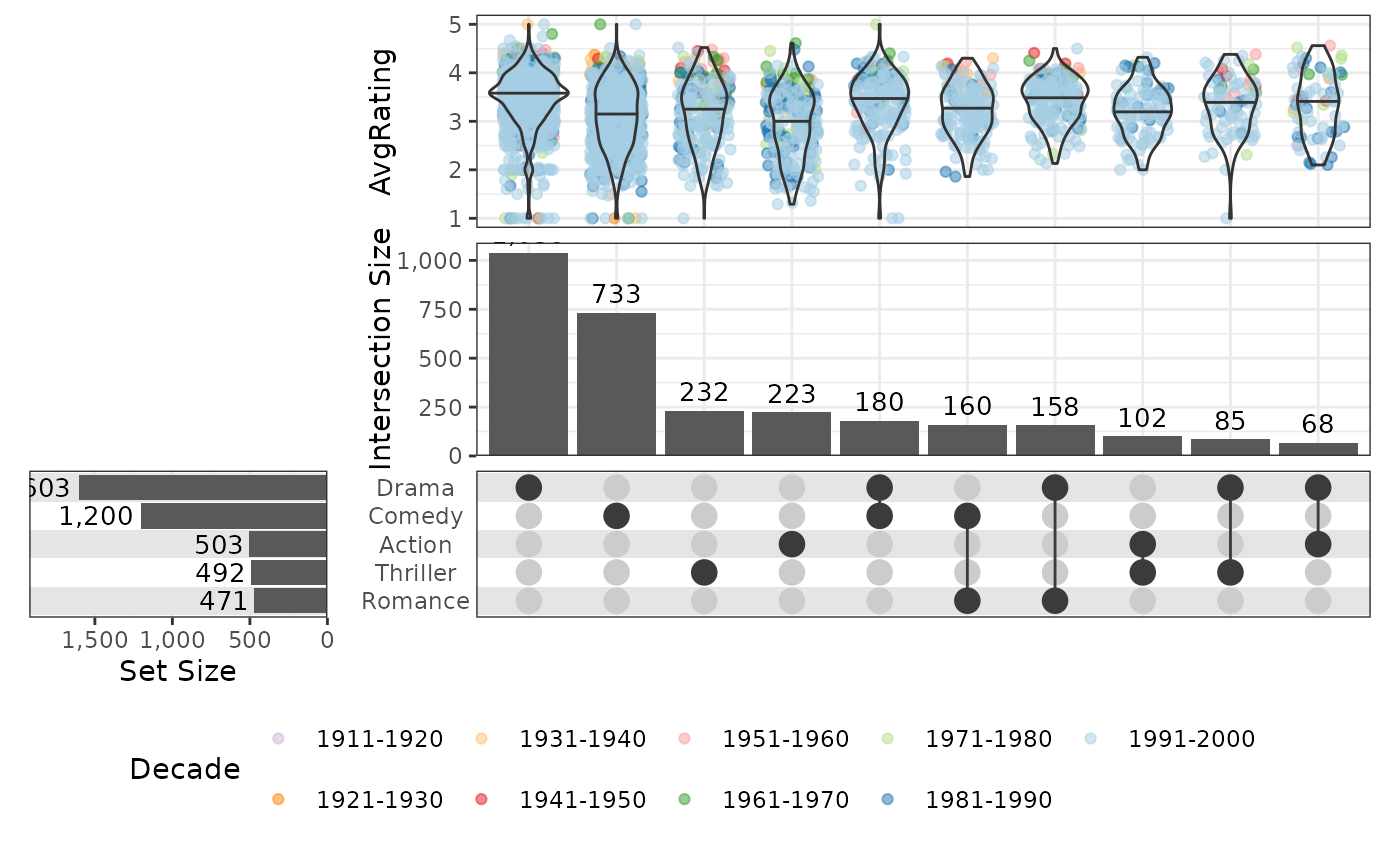
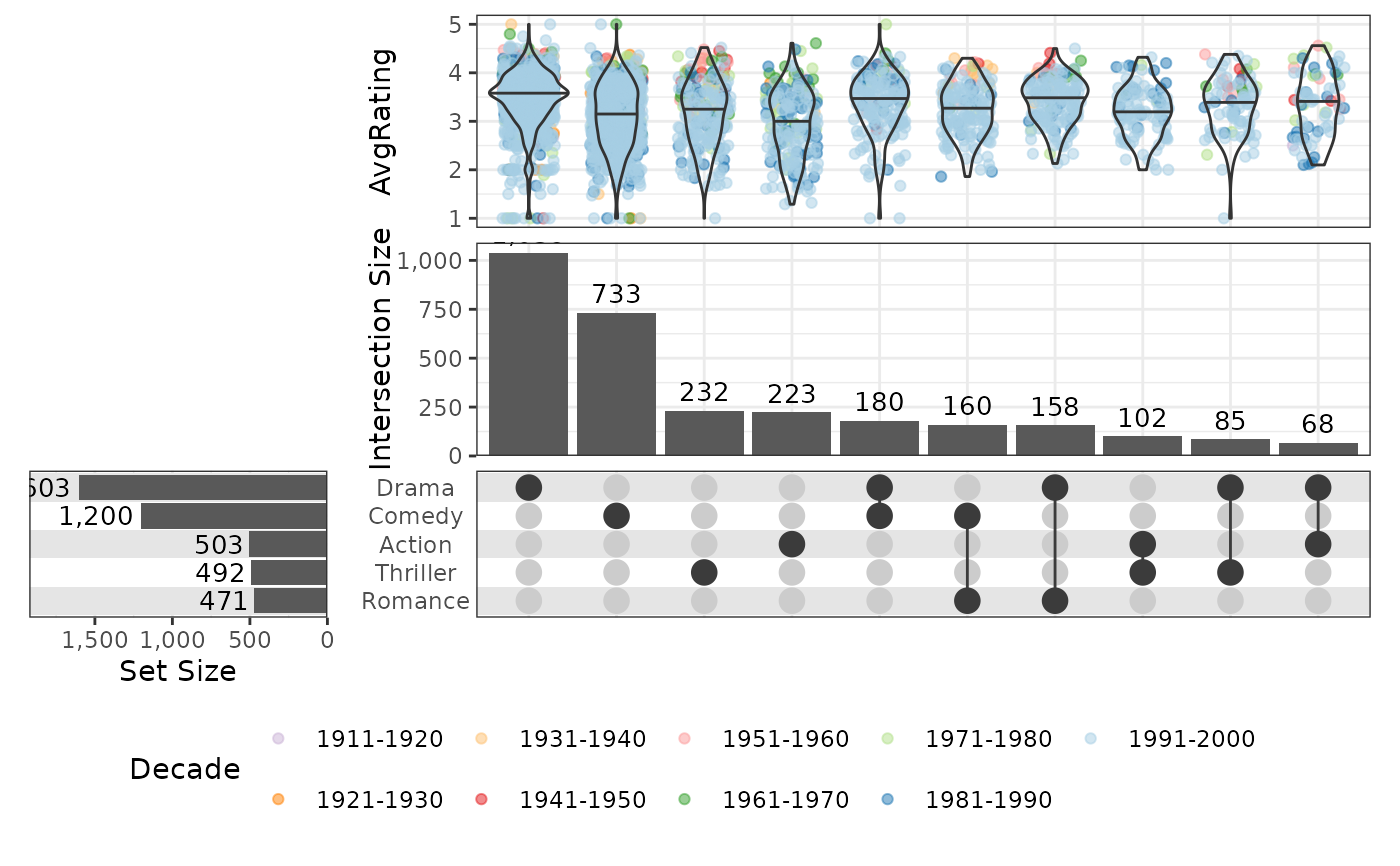
Built site for SimpleUpset@0.1.5: b88eb12

Changed region(s): [[0.3379, 0.0, 0.9829, 0.2806], [0.6143, 0.2494, 0.645, 0.2806]]

diff --git a/articles/introduction.html b/articles/introduction.html
@@ -32,7 +32,7 @@
       </button>
       <span class="navbar-brand">
         <a class="navbar-link" href="../index.html">SimpleUpset</a>
-        <span class="version label label-default" data-toggle="tooltip" data-placement="bottom" title="">0.1.4</span>
+        <span class="version label label-default" data-toggle="tooltip" data-placement="bottom" title="">0.1.5</span>
       </span>
     </div>
 
@@ -167,7 +167,7 @@ logical values, or logical values directly.</p>
 <div class="sourceCode" id="cb3"><pre class="downlit sourceCode r">
 <code class="sourceCode R"><span><span class="va">sets</span> <span class="op">&lt;-</span> <span class="fu"><a href="https://rdrr.io/r/base/c.html" class="external-link">c</a></span><span class="op">(</span><span class="st">"Action"</span>, <span class="st">"Comedy"</span>, <span class="st">"Drama"</span>, <span class="st">"Thriller"</span>, <span class="st">"Romance"</span><span class="op">)</span></span>
 <span><span class="fu"><a href="../reference/simpleUpSet.html">simpleUpSet</a></span><span class="op">(</span><span class="va">movies</span>, <span class="va">sets</span><span class="op">)</span></span></code></pre></div>
-<p><img src="introduction_files/figure-html/simple-upset-1.png" class="r-plt" width="960"></p>
+<p><img src="introduction_files/figure-html/simple-upset-1.png" class="r-plt" alt="" width="960"></p>
 <p>The number of intersections can be controlled using the arguments
 <code>n_intersect</code> to define a maximum number plotted, or
 <code>min_size</code> to only show those greater than any given
@@ -190,11 +190,13 @@ begin customisation from a low level.</p>
 <div class="sourceCode" id="cb4"><pre class="downlit sourceCode r">
 <code class="sourceCode R"><span><span class="fu"><a href="../reference/default-layers.html">default_set_layers</a></span><span class="op">(</span>dry_run <span class="op">=</span> <span class="cn">TRUE</span><span class="op">)</span></span>
 <span><span class="co">#&gt; list(aes(y = set), geom_bar(aes(fill = ~NULL)), geom_text(aes(x = size, </span></span>
-<span><span class="co">#&gt;     label = f(size)), hjust = hjust, size = label_size), scale_x_reverse(expand = expansion(expand), </span></span>
-<span><span class="co">#&gt;     name = name, labels = comma), scale_y_discrete(position = "right", </span></span>
-<span><span class="co">#&gt;     name = NULL, labels = NULL), theme(axis.text.y.right = element_text(hjust = 0.5), </span></span>
-<span><span class="co">#&gt;     axis.ticks.y.right = element_blank(), margins = margin(5.5, </span></span>
-<span><span class="co">#&gt;         0, 5.5, 5.5)))</span></span></code></pre></div>
+<span><span class="co">#&gt;     label = f(size)), hjust = hjust, vjust = vjust, angle = angle, </span></span>
+<span><span class="co">#&gt;     size = label_size, fontface = fontface, lineheight = lineheight), </span></span>
+<span><span class="co">#&gt;     scale_x_reverse(expand = expansion(expand), name = name, </span></span>
+<span><span class="co">#&gt;         labels = comma), scale_y_discrete(position = "right", </span></span>
+<span><span class="co">#&gt;         name = NULL, labels = NULL), theme(axis.text.y.right = element_text(hjust = 0.5), </span></span>
+<span><span class="co">#&gt;         axis.ticks.y.right = element_blank(), margins = margin(5.5, </span></span>
+<span><span class="co">#&gt;             0, 5.5, 5.5)))</span></span></code></pre></div>
 <p>A more simple strategy is to pass a set of key parameters to each
 function as described on the help page. Any additional layers are
 handled simply by the ellipsis (<code>...</code>).</p>
@@ -215,13 +217,13 @@ handled simply by the ellipsis (<code>...</code>).</p>
 <span>    <span class="fu"><a href="https://ggplot2.tidyverse.org/reference/guides.html" class="external-link">guides</a></span><span class="op">(</span>fill <span class="op">=</span> <span class="fu"><a href="https://ggplot2.tidyverse.org/reference/guide_none.html" class="external-link">guide_none</a></span><span class="op">(</span><span class="op">)</span><span class="op">)</span>, expand <span class="op">=</span> <span class="fu"><a href="https://rdrr.io/r/base/c.html" class="external-link">c</a></span><span class="op">(</span><span class="fl">0.3</span>, <span class="fl">0</span><span class="op">)</span></span>
 <span>  <span class="op">)</span></span>
 <span><span class="op">)</span></span></code></pre></div>
-<p><img src="introduction_files/figure-html/upset-decade-1.png" class="r-plt" width="960"></p>
+<p><img src="introduction_files/figure-html/upset-decade-1.png" class="r-plt" alt="" width="960"></p>
 </div>
 <div class="section level2">
 <h2 id="highlighting-intersections-and-sets">Highlighting Intersections and Sets<a class="anchor" aria-label="anchor" href="#highlighting-intersections-and-sets"></a>
 </h2>
 <p>Sets and intersections can be simply highlighted using the set name
-for sets, or by using a <code><a href="https://dplyr.tidyverse.org/reference/case_when.html" class="external-link">case_when()</a></code> statement to define
+for sets, or by using a <code><a href="https://dplyr.tidyverse.org/reference/case-and-replace-when.html" class="external-link">case_when()</a></code> statement to define
 highlights. If the highlight column is added to the underlying data
 object, this column can additionally be used for determining
 intersection order.</p>
@@ -248,11 +250,11 @@ intersection order.</p>
 <span>  intersect_layers <span class="op">=</span> <span class="va">intersect_list</span>,</span>
 <span>  grid_layers <span class="op">=</span> <span class="va">grid_list</span>,</span>
 <span>  sort_intersect <span class="op">=</span> <span class="fu"><a href="https://rdrr.io/r/base/list.html" class="external-link">list</a></span><span class="op">(</span><span class="va">highlight</span>, <span class="fu"><a href="https://dplyr.tidyverse.org/reference/desc.html" class="external-link">desc</a></span><span class="op">(</span><span class="va">size</span><span class="op">)</span><span class="op">)</span>,</span>
-<span>  highlight <span class="op">=</span> <span class="fu"><a href="https://dplyr.tidyverse.org/reference/case_when.html" class="external-link">case_when</a></span><span class="op">(</span><span class="va">Action</span> <span class="op">&amp;</span> <span class="va">Drama</span> <span class="op">~</span> <span class="cn">TRUE</span><span class="op">)</span></span>
+<span>  highlight <span class="op">=</span> <span class="fu"><a href="https://dplyr.tidyverse.org/reference/case-and-replace-when.html" class="external-link">case_when</a></span><span class="op">(</span><span class="va">Action</span> <span class="op">&amp;</span> <span class="va">Drama</span> <span class="op">~</span> <span class="cn">TRUE</span><span class="op">)</span></span>
 <span><span class="op">)</span> <span class="op">&amp;</span></span>
 <span>  <span class="fu"><a href="https://patchwork.data-imaginist.com/reference/plot_annotation.html" class="external-link">plot_annotation</a></span><span class="op">(</span>title <span class="op">=</span> <span class="st">"Using Highlights"</span><span class="op">)</span> <span class="op">&amp;</span></span>
 <span>  <span class="fu"><a href="https://ggplot2.tidyverse.org/reference/theme.html" class="external-link">theme</a></span><span class="op">(</span>legend.position <span class="op">=</span> <span class="st">"none"</span>, plot.title <span class="op">=</span> <span class="fu"><a href="https://ggplot2.tidyverse.org/reference/element.html" class="external-link">element_text</a></span><span class="op">(</span>hjust <span class="op">=</span> <span class="fl">2</span><span class="op">/</span><span class="fl">3</span><span class="op">)</span><span class="op">)</span></span></code></pre></div>
-<p><img src="introduction_files/figure-html/upset-highlights-1.png" class="r-plt" width="960"></p>
+<p><img src="introduction_files/figure-html/upset-highlights-1.png" class="r-plt" alt="" width="960"></p>
 <p>Alternatively, the complete set of intersections containing any one
 of the sets can be highlighted simply by filling bars using that
 individual set.</p>
@@ -268,7 +270,7 @@ individual set.</p>
 <span>    colour <span class="op">=</span> <span class="st">"Comedy"</span>, <span class="fu"><a href="https://ggplot2.tidyverse.org/reference/scale_manual.html" class="external-link">scale_colour_manual</a></span><span class="op">(</span>values <span class="op">=</span> <span class="fu"><a href="https://rdrr.io/r/base/c.html" class="external-link">c</a></span><span class="op">(</span><span class="st">"grey23"</span>, <span class="st">"blue"</span><span class="op">)</span><span class="op">)</span></span>
 <span>  <span class="op">)</span></span>
 <span><span class="op">)</span></span></code></pre></div>
-<p><img src="introduction_files/figure-html/upset-highlights2-1.png" class="r-plt" width="960"></p>
+<p><img src="introduction_files/figure-html/upset-highlights2-1.png" class="r-plt" alt="" width="960"></p>
 </div>
 <div class="section level2">
 <h2 id="adding-plots-to-upper-panels">Adding Plots to Upper Panels<a class="anchor" aria-label="anchor" href="#adding-plots-to-upper-panels"></a>
@@ -283,7 +285,7 @@ argument.</p>
 <span>  intersect_layers <span class="op">=</span> <span class="fu"><a href="../reference/default-layers.html">default_intersect_layers</a></span><span class="op">(</span>expand <span class="op">=</span> <span class="fu"><a href="https://rdrr.io/r/base/c.html" class="external-link">c</a></span><span class="op">(</span><span class="fl">0</span>, <span class="fl">0.1</span><span class="op">)</span><span class="op">)</span>,</span>
 <span>  annotations <span class="op">=</span> <span class="fu"><a href="https://rdrr.io/r/base/list.html" class="external-link">list</a></span><span class="op">(</span><span class="fu"><a href="https://ggplot2.tidyverse.org/reference/geom_boxplot.html" class="external-link">geom_boxplot</a></span><span class="op">(</span><span class="fu"><a href="https://ggplot2.tidyverse.org/reference/aes.html" class="external-link">aes</a></span><span class="op">(</span>y <span class="op">=</span> <span class="va">AvgRating</span><span class="op">)</span><span class="op">)</span><span class="op">)</span>,</span>
 <span><span class="op">)</span></span></code></pre></div>
-<p><img src="introduction_files/figure-html/upset-boxplot-1.png" class="r-plt" width="960"></p>
+<p><img src="introduction_files/figure-html/upset-boxplot-1.png" class="r-plt" alt="" width="960"></p>
 <p>There is no particular limit to the complexity of the upper panels,
 beyond what is contained within the dataset, or what can be considered
 as useful for communication with readers.</p>
@@ -303,12 +305,12 @@ as useful for communication with readers.</p>
 <span>  <span class="op">)</span>, guides <span class="op">=</span> <span class="st">"collect"</span></span>
 <span><span class="op">)</span> <span class="op">&amp;</span></span>
 <span>  <span class="fu"><a href="https://ggplot2.tidyverse.org/reference/theme.html" class="external-link">theme</a></span><span class="op">(</span>legend.position <span class="op">=</span> <span class="st">"bottom"</span><span class="op">)</span></span></code></pre></div>
-<p><img src="introduction_files/figure-html/upset-violin-1.png" class="r-plt" width="960"></p>
+<p><img src="introduction_files/figure-html/upset-violin-1.png" class="r-plt" alt="" width="960"></p>
 </div>
 <div class="section level2">
 <h2 id="sessioninfo">SessionInfo<a class="anchor" aria-label="anchor" href="#sessioninfo"></a>
 </h2>
-<p><strong>R version 4.5.2 (2025-10-31)</strong></p>
+<p><strong>R version 4.6.1 (2026-06-24)</strong></p>
 <p><strong>Platform:</strong> x86_64-pc-linux-gnu</p>
 <p><strong>locale:</strong> <em>LC_CTYPE=C.UTF-8</em>,
 <em>LC_NUMERIC=C</em>, <em>LC_TIME=C.UTF-8</em>,
@@ -320,42 +322,43 @@ as useful for communication with readers.</p>
 <em>graphics</em>, <em>grDevices</em>, <em>utils</em>,
 <em>datasets</em>, <em>methods</em> and <em>base</em></p>
 <p><strong>other attached packages:</strong> <em>pander(v.0.6.6)</em>,
-<em>SimpleUpset(v.0.1.4)</em>, <em>patchwork(v.1.3.2)</em>,
-<em>lubridate(v.1.9.4)</em>, <em>forcats(v.1.0.1)</em>,
-<em>stringr(v.1.6.0)</em>, <em>dplyr(v.1.1.4)</em>,
-<em>purrr(v.1.2.0)</em>, <em>readr(v.2.1.6)</em>,
-<em>tidyr(v.1.3.1)</em>, <em>tibble(v.3.3.0)</em>,
-<em>ggplot2(v.4.0.1)</em> and <em>tidyverse(v.2.0.0)</em></p>
+<em>SimpleUpset(v.0.1.5)</em>, <em>patchwork(v.1.3.2)</em>,
+<em>lubridate(v.1.9.5)</em>, <em>forcats(v.1.0.1)</em>,
+<em>stringr(v.1.6.0)</em>, <em>dplyr(v.1.2.1)</em>,
+<em>purrr(v.1.2.2)</em>, <em>readr(v.2.2.0)</em>,
+<em>tidyr(v.1.3.2)</em>, <em>tibble(v.3.3.1)</em>,
+<em>ggplot2(v.4.0.3)</em> and <em>tidyverse(v.2.0.0)</em></p>
 <p><strong>loaded via a namespace (and not attached):</strong>
 <em>sass(v.0.4.10)</em>, <em>generics(v.0.1.4)</em>,
 <em>stringi(v.1.8.7)</em>, <em>hms(v.1.1.4)</em>,
-<em>digest(v.0.6.39)</em>, <em>magrittr(v.2.0.4)</em>,
-<em>evaluate(v.1.0.5)</em>, <em>grid(v.4.5.2)</em>,
-<em>timechange(v.0.3.0)</em>, <em>RColorBrewer(v.1.1-3)</em>,
+<em>digest(v.0.6.39)</em>, <em>magrittr(v.2.0.5)</em>,
+<em>evaluate(v.1.0.5)</em>, <em>grid(v.4.6.1)</em>,
+<em>timechange(v.0.4.0)</em>, <em>RColorBrewer(v.1.1-3)</em>,
 <em>fastmap(v.1.2.0)</em>, <em>jsonlite(v.2.0.0)</em>,
-<em>scales(v.1.4.0)</em>, <em>textshaping(v.1.0.4)</em>,
-<em>jquerylib(v.0.1.4)</em>, <em>cli(v.3.6.5)</em>,
-<em>crayon(v.1.5.3)</em>, <em>rlang(v.1.1.6)</em>,
-<em>bit64(v.4.6.0-1)</em>, <em>withr(v.3.0.2)</em>,
-<em>cachem(v.1.1.0)</em>, <em>yaml(v.2.3.10)</em>,
-<em>parallel(v.4.5.2)</em>, <em>tools(v.4.5.2)</em>,
-<em>tzdb(v.0.5.0)</em>, <em>vctrs(v.0.6.5)</em>, <em>R6(v.2.6.1)</em>,
-<em>lifecycle(v.1.0.4)</em>, <em>bit(v.4.6.0)</em>,
-<em>fs(v.1.6.6)</em>, <em>vroom(v.1.6.6)</em>, <em>ragg(v.1.5.0)</em>,
+<em>scales(v.1.4.0)</em>, <em>textshaping(v.1.0.5)</em>,
+<em>jquerylib(v.0.1.4)</em>, <em>cli(v.3.6.6)</em>,
+<em>crayon(v.1.5.3)</em>, <em>rlang(v.1.2.0)</em>,
+<em>bit64(v.4.8.2)</em>, <em>withr(v.3.0.3)</em>,
+<em>cachem(v.1.1.0)</em>, <em>yaml(v.2.3.12)</em>,
+<em>otel(v.0.2.0)</em>, <em>parallel(v.4.6.1)</em>,
+<em>tools(v.4.6.1)</em>, <em>tzdb(v.0.5.0)</em>,
+<em>vctrs(v.0.7.3)</em>, <em>R6(v.2.6.1)</em>,
+<em>lifecycle(v.1.0.5)</em>, <em>bit(v.4.6.0)</em>,
+<em>fs(v.2.1.0)</em>, <em>vroom(v.1.7.1)</em>, <em>ragg(v.1.5.2)</em>,
 <em>pkgconfig(v.2.0.3)</em>, <em>desc(v.1.4.3)</em>,
 <em>pkgdown(v.2.2.0)</em>, <em>pillar(v.1.11.1)</em>,
-<em>bslib(v.0.9.0)</em>, <em>gtable(v.0.3.6)</em>,
-<em>glue(v.1.8.0)</em>, <em>Rcpp(v.1.1.0)</em>,
-<em>systemfonts(v.1.3.1)</em>, <em>xfun(v.0.54)</em>,
-<em>tidyselect(v.1.2.1)</em>, <em>knitr(v.1.50)</em>,
-<em>farver(v.2.1.2)</em>, <em>htmltools(v.0.5.8.1)</em>,
-<em>labeling(v.0.4.3)</em>, <em>rmarkdown(v.2.30)</em>,
-<em>compiler(v.4.5.2)</em> and <em>S7(v.0.2.1)</em></p>
+<em>bslib(v.0.11.0)</em>, <em>gtable(v.0.3.6)</em>,
+<em>Rcpp(v.1.1.1-1.1)</em>, <em>glue(v.1.8.1)</em>,
+<em>systemfonts(v.1.3.2)</em>, <em>xfun(v.0.59)</em>,
+<em>tidyselect(v.1.2.1)</em>, <em>knitr(v.1.51)</em>,
+<em>farver(v.2.1.2)</em>, <em>htmltools(v.0.5.9)</em>,
+<em>labeling(v.0.4.3)</em>, <em>rmarkdown(v.2.31)</em>,
+<em>compiler(v.4.6.1)</em> and <em>S7(v.0.2.2)</em></p>
 </div>
 <div class="section level2 unnumbered">
 <h2 class="unnumbered" id="references">References<a class="anchor" aria-label="anchor" href="#references"></a>
 </h2>
-<div id="refs" class="references csl-bib-body hanging-indent" entry-spacing="0">
+<div id="refs" class="references csl-bib-body hanging-indent">
 <div id="ref-Gehlenborg2019-up" class="csl-entry">
 Gehlenborg, Nils. 2019. <em>UpSetR: A More Scalable Alternative to Venn
 and Euler Diagrams for Visualizing Intersecting Sets</em>. <a href="https://doi.org/10.32614/CRAN.package.UpSetR" class="external-link">https://doi.org/10.32614/CRAN.package.UpSetR</a>.
@@ -367,8 +370,7 @@ Sets.”</span> <em>IEEE Transactions on Visualization and Computer
 Graphics</em> 20 (12): 1983–92. <a href="https://doi.org/10.1109/TVCG.2014.2346248" class="external-link">https://doi.org/10.1109/TVCG.2014.2346248</a>.
 </div>
 <div id="ref-wickham-tidy" class="csl-entry">
-Wickham, Hadley, Mara Averick, Jennifer Bryan, Winston Chang, Lucy
-D’Agostino McGowan, Romain François, Garrett Grolemund, et al. 2019.
+Wickham, Hadley, Mara Averick, Jennifer Bryan, et al. 2019.
 <span>“Welcome to the <span class="nocase">tidyverse</span>.”</span>
 <em>Journal of Open Source Software</em> 4 (43): 1686. <a href="https://doi.org/10.21105/joss.01686" class="external-link">https://doi.org/10.21105/joss.01686</a>.
 </div>

diff --git a/reference/default-layers.html b/reference/default-layers.html
@@ -17,7 +17,7 @@
       </button>
       <span class="navbar-brand">
         <a class="navbar-link" href="../index.html">SimpleUpset</a>
-        <span class="version label label-default" data-toggle="tooltip" data-placement="bottom" title="">0.1.4</span>
+        <span class="version label label-default" data-toggle="tooltip" data-placement="bottom" title="">0.1.5</span>
       </span>
     </div>
 
@@ -70,6 +70,10 @@
 <span>  f <span class="op">=</span> <span class="va">comma</span>,</span>
 <span>  expand <span class="op">=</span> <span class="fu"><a href="https://rdrr.io/r/base/c.html" class="external-link">c</a></span><span class="op">(</span><span class="fl">0.2</span>, <span class="fl">0</span><span class="op">)</span>,</span>
 <span>  hjust <span class="op">=</span> <span class="fl">1.1</span>,</span>
+<span>  vjust <span class="op">=</span> <span class="fl">0.5</span>,</span>
+<span>  angle <span class="op">=</span> <span class="fl">0</span>,</span>
+<span>  lineheight <span class="op">=</span> <span class="fl">1.2</span>,</span>
+<span>  fontface <span class="op">=</span> <span class="fl">1</span>,</span>
 <span>  label_size <span class="op">=</span> <span class="fl">3.5</span>,</span>
 <span>  name <span class="op">=</span> <span class="st">"Set Size"</span>,</span>
 <span>  dry_run <span class="op">=</span> <span class="cn">FALSE</span></span>
@@ -81,7 +85,11 @@
 <span>  labels <span class="op">=</span> <span class="st">"size"</span>,</span>
 <span>  f <span class="op">=</span> <span class="va">comma</span>,</span>
 <span>  expand <span class="op">=</span> <span class="fu"><a href="https://rdrr.io/r/base/c.html" class="external-link">c</a></span><span class="op">(</span><span class="fl">0</span>, <span class="fl">0.05</span><span class="op">)</span>,</span>
+<span>  hjust <span class="op">=</span> <span class="fl">0.5</span>,</span>
 <span>  vjust <span class="op">=</span> <span class="op">-</span><span class="fl">0.5</span>,</span>
+<span>  angle <span class="op">=</span> <span class="fl">0</span>,</span>
+<span>  fontface <span class="op">=</span> <span class="fl">1</span>,</span>
+<span>  lineheight <span class="op">=</span> <span class="fl">1.2</span>,</span>
 <span>  label_size <span class="op">=</span> <span class="fl">3.5</span>,</span>
 <span>  name <span class="op">=</span> <span class="st">"Intersection Size"</span>,</span>
 <span>  dry_run <span class="op">=</span> <span class="cn">FALSE</span></span>
@@ -124,11 +132,12 @@ proportion of all intersections</p></dd>
 
 
 <dt id="arg-expand">expand<a class="anchor" aria-label="anchor" href="#arg-expand"></a></dt>
-<dd><p>Multiplicative axis expansion passed to <code><a href="https://ggplot2.tidyverse.org/reference/expansion.html" class="external-link">ggplot2::expansion()</a></code></p></dd>
+<dd><p>Multiplicative axis expansion passed to <code><a href="https://ggplot2.tidyverse.org/reference/expansion.html" class="external-link">expansion()</a></code></p></dd>
 
 
-<dt id="arg-hjust-vjust">hjust, vjust<a class="anchor" aria-label="anchor" href="#arg-hjust-vjust"></a></dt>
-<dd><p>Passed to respective elements for simple adjustment of
+<dt id="arg-hjust-vjust-lineheight-angle-fontface">hjust, vjust, lineheight, angle, fontface<a class="anchor" aria-label="anchor" href="#arg-hjust-vjust-lineheight-angle-fontface"></a></dt>
+<dd><p>Passed to respective elements
+for simple adjustment of
 either set or intersection sizes</p></dd>
 
 
@@ -224,11 +233,13 @@ using <code><a href="https://scales.r-lib.org/reference/percent_format.html" cla
     <div class="sourceCode"><pre class="sourceCode r"><code><span class="r-in"><span><span class="co"># View the un-evaluated list of default layers for the sets</span></span></span>
 <span class="r-in"><span><span class="fu">default_set_layers</span><span class="op">(</span>dry_run <span class="op">=</span> <span class="cn">TRUE</span><span class="op">)</span></span></span>
 <span class="r-out co"><span class="r-pr">#&gt;</span> list(aes(y = set), geom_bar(aes(fill = ~NULL)), geom_text(aes(x = size, </span>
-<span class="r-out co"><span class="r-pr">#&gt;</span>     label = f(size)), hjust = hjust, size = label_size), scale_x_reverse(expand = expansion(expand), </span>
-<span class="r-out co"><span class="r-pr">#&gt;</span>     name = name, labels = comma), scale_y_discrete(position = "right", </span>
-<span class="r-out co"><span class="r-pr">#&gt;</span>     name = NULL, labels = NULL), theme(axis.text.y.right = element_text(hjust = 0.5), </span>
-<span class="r-out co"><span class="r-pr">#&gt;</span>     axis.ticks.y.right = element_blank(), margins = margin(5.5, </span>
-<span class="r-out co"><span class="r-pr">#&gt;</span>         0, 5.5, 5.5)))</span>
+<span class="r-out co"><span class="r-pr">#&gt;</span>     label = f(size)), hjust = hjust, vjust = vjust, angle = angle, </span>
+<span class="r-out co"><span class="r-pr">#&gt;</span>     size = label_size, fontface = fontface, lineheight = lineheight), </span>
+<span class="r-out co"><span class="r-pr">#&gt;</span>     scale_x_reverse(expand = expansion(expand), name = name, </span>
+<span class="r-out co"><span class="r-pr">#&gt;</span>         labels = comma), scale_y_discrete(position = "right", </span>
+<span class="r-out co"><span class="r-pr">#&gt;</span>         name = NULL, labels = NULL), theme(axis.text.y.right = element_text(hjust = 0.5), </span>
+<span class="r-out co"><span class="r-pr">#&gt;</span>         axis.ticks.y.right = element_blank(), margins = margin(5.5, </span>
+<span class="r-out co"><span class="r-pr">#&gt;</span>             0, 5.5, 5.5)))</span>
 <span class="r-in"><span></span></span>
 <span class="r-in"><span><span class="co"># Create set layers colouring by set name, and hiding the legend</span></span></span>
 <span class="r-in"><span><span class="va">set_list</span> <span class="op">&lt;-</span> <span class="fu">default_set_layers</span><span class="op">(</span></span></span>

diff --git a/reference/simpleUpSet.html b/reference/simpleUpSet.html
@@ -17,7 +17,7 @@
       </button>
       <span class="navbar-brand">
         <a class="navbar-link" href="../index.html">SimpleUpset</a>
-        <span class="version label label-default" data-toggle="tooltip" data-placement="bottom" title="">0.1.4</span>
+        <span class="version label label-default" data-toggle="tooltip" data-placement="bottom" title="">0.1.5</span>
       </span>
     </div>
 
@@ -147,7 +147,7 @@ using <code><a href="default-layers.html">default_intersect_layers()</a></code><
 
 
 <dt id="arg-highlight">highlight<a class="anchor" aria-label="anchor" href="#arg-highlight"></a></dt>
-<dd><p><code><a href="https://dplyr.tidyverse.org/reference/case_when.html" class="external-link">dplyr::case_when()</a></code> statement defining all intersections to
+<dd><p><code><a href="https://dplyr.tidyverse.org/reference/case-and-replace-when.html" class="external-link">case_when()</a></code> statement defining all intersections to
 highlight using <code>geom_intersect</code> and <code>scale_fill/colour_intersect</code>.
 Will add a column named <code>highlight</code> which can be called from any geom passed
 to the intersections barplot or matrix</p></dd>
@@ -179,7 +179,7 @@ For no stripes, set as NULL</p></dd>
 
 
 <dt id="arg-guides">guides<a class="anchor" aria-label="anchor" href="#arg-guides"></a></dt>
-<dd><p>Passed to <code><a href="https://patchwork.data-imaginist.com/reference/plot_layout.html" class="external-link">patchwork::plot_layout()</a></code></p></dd>
+<dd><p>Passed to <code><a href="https://patchwork.data-imaginist.com/reference/plot_layout.html" class="external-link">plot_layout()</a></code></p></dd>
 
 
 <dt id="arg-top-left">top_left<a class="anchor" aria-label="anchor" href="#arg-top-left"></a></dt>
@@ -228,10 +228,10 @@ list object, or modified directly using the ellipsis</p>
     <div class="sourceCode"><pre class="sourceCode r"><code><span class="r-in"><span><span class="co">## Use a modified version of the movies data provided with the package UpSetR</span></span></span>
 <span class="r-in"><span><span class="kw"><a href="https://rdrr.io/r/base/library.html" class="external-link">library</a></span><span class="op">(</span><span class="va"><a href="https://tidyverse.tidyverse.org" class="external-link">tidyverse</a></span><span class="op">)</span></span></span>
 <span class="r-msg co"><span class="r-pr">#&gt;</span> ── <span style="font-weight: bold;">Attaching core tidyverse packages</span> ──────────────────────── tidyverse 2.0.0 ──</span>
-<span class="r-msg co"><span class="r-pr">#&gt;</span> <span style="color: #00BB00;">✔</span> <span style="color: #0000BB;">dplyr    </span> 1.1.4     <span style="color: #00BB00;">✔</span> <span style="color: #0000BB;">readr    </span> 2.1.6</span>
+<span class="r-msg co"><span class="r-pr">#&gt;</span> <span style="color: #00BB00;">✔</span> <span style="color: #0000BB;">dplyr    </span> 1.2.1     <span style="color: #00BB00;">✔</span> <span style="color: #0000BB;">readr    </span> 2.2.0</span>
 <span class="r-msg co"><span class="r-pr">#&gt;</span> <span style="color: #00BB00;">✔</span> <span style="color: #0000BB;">forcats  </span> 1.0.1     <span style="color: #00BB00;">✔</span> <span style="color: #0000BB;">stringr  </span> 1.6.0</span>
-<span class="r-msg co"><span class="r-pr">#&gt;</span> <span style="color: #00BB00;">✔</span> <span style="color: #0000BB;">lubridate</span> 1.9.4     <span style="color: #00BB00;">✔</span> <span style="color: #0000BB;">tibble   </span> 3.3.0</span>
-<span class="r-msg co"><span class="r-pr">#&gt;</span> <span style="color: #00BB00;">✔</span> <span style="color: #0000BB;">purrr    </span> 1.2.0     <span style="color: #00BB00;">✔</span> <span style="color: #0000BB;">tidyr    </span> 1.3.1</span>
+<span class="r-msg co"><span class="r-pr">#&gt;</span> <span style="color: #00BB00;">✔</span> <span style="color: #0000BB;">lubridate</span> 1.9.5     <span style="color: #00BB00;">✔</span> <span style="color: #0000BB;">tibble   </span> 3.3.1</span>
+<span class="r-msg co"><span class="r-pr">#&gt;</span> <span style="color: #00BB00;">✔</span> <span style="color: #0000BB;">purrr    </span> 1.2.2     <span style="color: #00BB00;">✔</span> <span style="color: #0000BB;">tidyr    </span> 1.3.2</span>
 <span class="r-msg co"><span class="r-pr">#&gt;</span> ── <span style="font-weight: bold;">Conflicts</span> ────────────────────────────────────────── tidyverse_conflicts() ──</span>
 <span class="r-msg co"><span class="r-pr">#&gt;</span> <span style="color: #BB0000;">✖</span> <span style="color: #0000BB;">dplyr</span>::<span style="color: #00BB00;">filter()</span> masks <span style="color: #0000BB;">stats</span>::filter()</span>
 <span class="r-msg co"><span class="r-pr">#&gt;</span> <span style="color: #BB0000;">✖</span> <span style="color: #0000BB;">dplyr</span>::<span style="color: #00BB00;">lag()</span>    masks <span style="color: #0000BB;">stats</span>::lag()</span>

diff --git a/authors.html b/authors.html
@@ -17,7 +17,7 @@
       </button>
       <span class="navbar-brand">
         <a class="navbar-link" href="index.html">SimpleUpset</a>
-        <span class="version label label-default" data-toggle="tooltip" data-placement="bottom" title="">0.1.4</span>
+        <span class="version label label-default" data-toggle="tooltip" data-placement="bottom" title="">0.1.5</span>
       </span>
     </div>
 
@@ -71,15 +71,15 @@
     </div>
 
 
-    <p>Pederson S (2025).
+    <p>Pederson S (2026).
 <em>SimpleUpset: Create Upset Plots</em>.
-R package version 0.1.4, <a href="https://github.com/smped/SimpleUpset" class="external-link">https://github.com/smped/SimpleUpset</a>.
+R package version 0.1.5, <a href="https://github.com/smped/SimpleUpset" class="external-link">https://github.com/smped/SimpleUpset</a>.
 </p>
     <pre>@Manual{,
   title = {SimpleUpset: Create Upset Plots},
   author = {Stevie Pederson},
-  year = {2025},
-  note = {R package version 0.1.4},
+  year = {2026},
+  note = {R package version 0.1.5},
   url = {https://github.com/smped/SimpleUpset},
 }</pre>
 

diff --git a/news/index.html b/news/index.html
@@ -17,7 +17,7 @@
       </button>
       <span class="navbar-brand">
         <a class="navbar-link" href="../index.html">SimpleUpset</a>
-        <span class="version label label-default" data-toggle="tooltip" data-placement="bottom" title="">0.1.4</span>
+        <span class="version label label-default" data-toggle="tooltip" data-placement="bottom" title="">0.1.5</span>
       </span>
     </div>
 
@@ -57,6 +57,12 @@
       <small>Source: <a href="https://github.com/smped/SimpleUpset/blob/gh-actions/NEWS.md" class="external-link"><code>NEWS.md</code></a></small>
     </div>
 
+    <div class="section level2">
+<h2 class="page-header" data-toc-text="0.1.5" id="simpleupset-015">SimpleUpset 0.1.5<a class="anchor" aria-label="anchor" href="#simpleupset-015"></a></h2>
+<ul><li>Bugfix when setting theme using <code><a href="https://ggplot2.tidyverse.org/reference/get_theme.html" class="external-link">theme_update()</a></code>
+</li>
+<li>Added more arguments for manipulating set &amp; intersect labels</li>
+</ul></div>
     <div class="section level2">
 <h2 class="page-header" data-toc-text="0.1.3" id="simpleupset-013">SimpleUpset 0.1.3<small>2025-10-22</small><a class="anchor" aria-label="anchor" href="#simpleupset-013"></a></h2>
 <ul><li>Added ‘ascending’, ‘descending’ or ‘none’ as options for sorting sets</li>

diff --git a/404.html b/404.html
@@ -32,7 +32,7 @@
       </button>
       <span class="navbar-brand">
         <a class="navbar-link" href="https://smped.github.io/SimpleUpset/index.html">SimpleUpset</a>
-        <span class="version label label-default" data-toggle="tooltip" data-placement="bottom" title="">0.1.4</span>
+        <span class="version label label-default" data-toggle="tooltip" data-placement="bottom" title="">0.1.5</span>
       </span>
     </div>
 

diff --git a/TODO.html b/TODO.html
@@ -17,7 +17,7 @@
       </button>
       <span class="navbar-brand">
         <a class="navbar-link" href="index.html">SimpleUpset</a>
-        <span class="version label label-default" data-toggle="tooltip" data-placement="bottom" title="">0.1.4</span>
+        <span class="version label label-default" data-toggle="tooltip" data-placement="bottom" title="">0.1.5</span>
       </span>
     </div>
 

diff --git a/articles/index.html b/articles/index.html
@@ -17,7 +17,7 @@
       </button>
       <span class="navbar-brand">
         <a class="navbar-link" href="../index.html">SimpleUpset</a>
-        <span class="version label label-default" data-toggle="tooltip" data-placement="bottom" title="">0.1.4</span>
+        <span class="version label label-default" data-toggle="tooltip" data-placement="bottom" title="">0.1.5</span>
       </span>
     </div>
 

diff --git a/index.html b/index.html
@@ -33,7 +33,7 @@
       </button>
       <span class="navbar-brand">
         <a class="navbar-link" href="index.html">SimpleUpset</a>
-        <span class="version label label-default" data-toggle="tooltip" data-placement="bottom" title="">0.1.4</span>
+        <span class="version label label-default" data-toggle="tooltip" data-placement="bottom" title="">0.1.5</span>
       </span>
     </div>
 

diff --git a/reference/index.html b/reference/index.html
@@ -17,7 +17,7 @@
       </button>
       <span class="navbar-brand">
         <a class="navbar-link" href="../index.html">SimpleUpset</a>
-        <span class="version label label-default" data-toggle="tooltip" data-placement="bottom" title="">0.1.4</span>
+        <span class="version label label-default" data-toggle="tooltip" data-placement="bottom" title="">0.1.5</span>
       </span>
     </div>
 